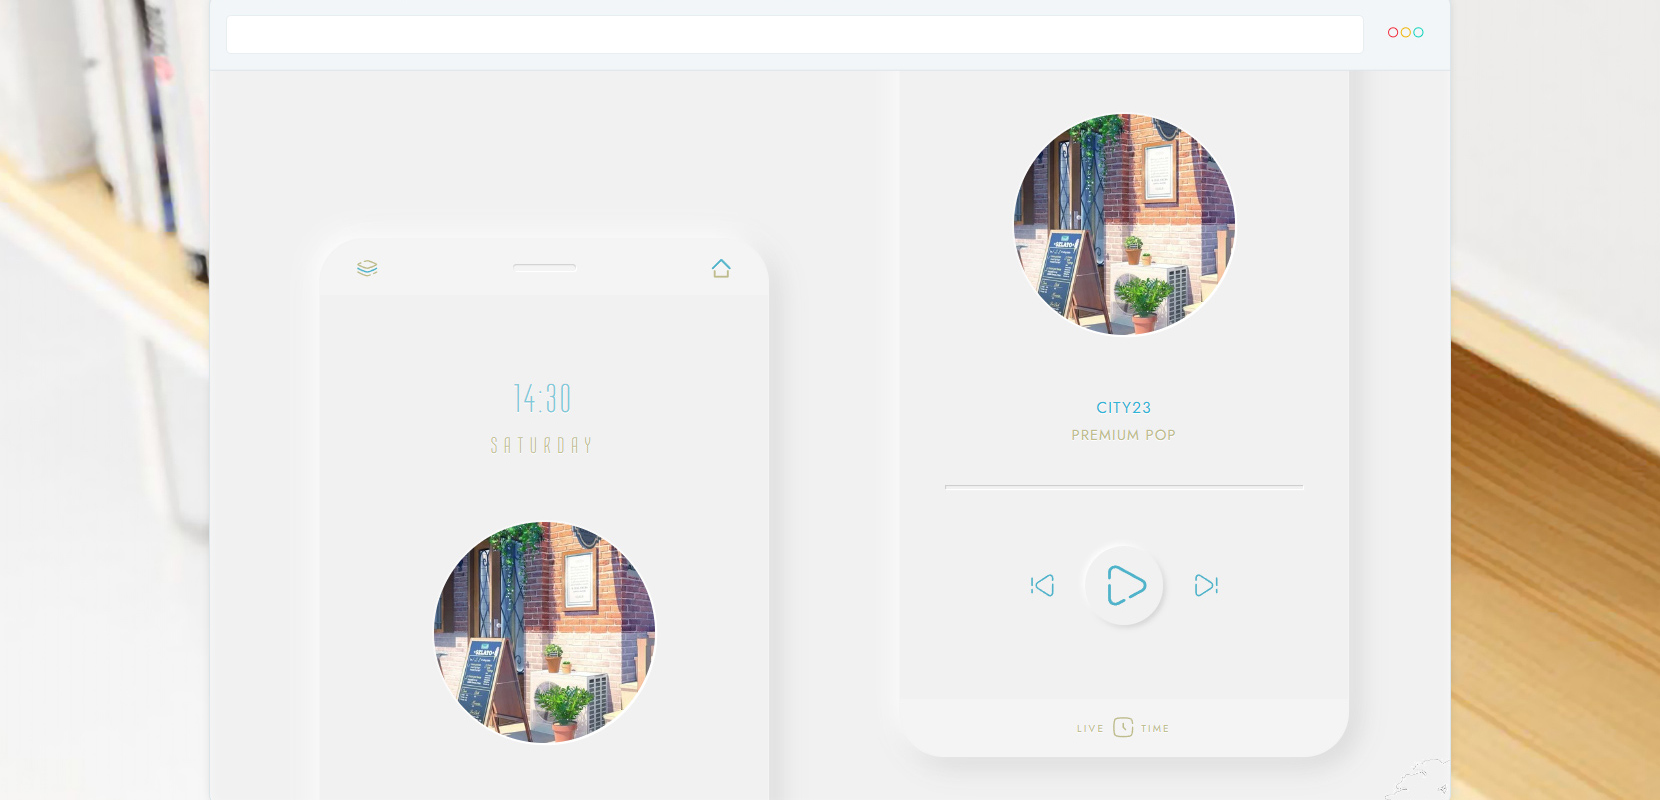
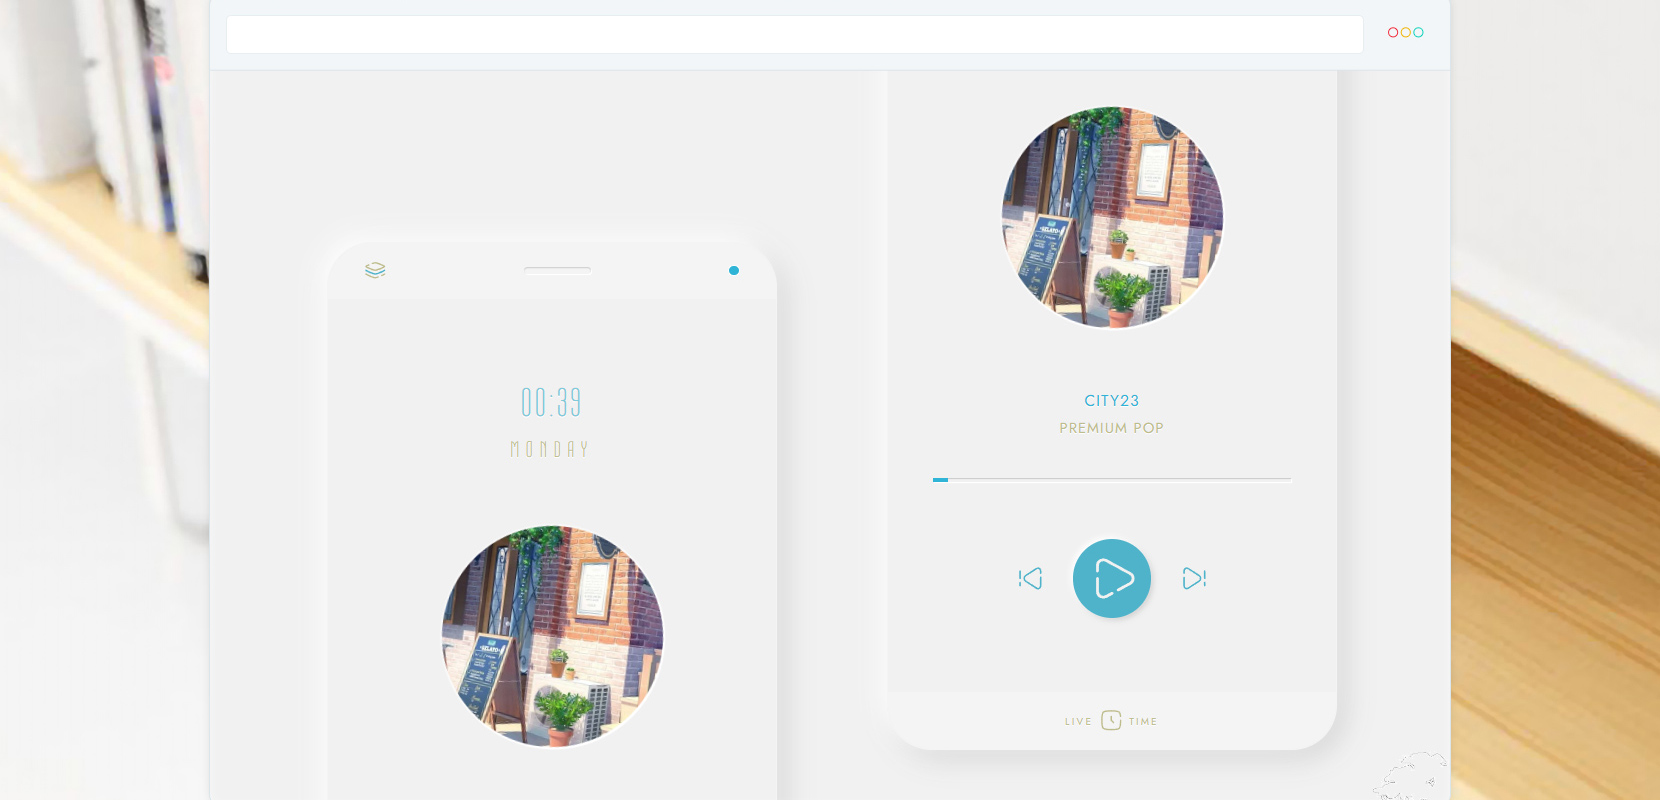
new

diff --git a/css/style.css b/css/style.css
@@ -57,7 +57,6 @@ body
 	border : 1px solid #f4f4f4;
 	border-radius : 40px;
 
-
 	background : #f1f1f1;
 	box-shadow : -6px -6px 22px #fff, 6px 6px 24px #d0d0d0;
 }
@@ -77,7 +76,7 @@ body
 	height : 3.125rem;
 
 	margin : 0;
-	padding : 2px 2rem 0;
+	padding : 0 2rem;
 
 	border-top-left-radius : 40px;
 	border-top-right-radius : 40px;
@@ -85,7 +84,7 @@ body
 	background : #f4f4f4;
 }
 
-.code, .code svg
+.code svg
 {
 	display : flex;
 
@@ -102,24 +101,7 @@ body
 	stroke-width : 0;
 }
 
-.sound, .sound svg
-{
-	display : flex;
-
-	width : 1.25rem;
-	height : 1.25rem;
-
-	cursor : pointer;
-	transition : all .3s ease;
-
-	color : #bfbc8a;
-
-	fill : currentColor;
-	stroke : currentColor;
-	stroke-width : 0;
-}
-
-.code svg:hover, .sound svg:hover
+.code svg:hover
 {
 	color : #00b4d8;
 }
@@ -127,10 +109,8 @@ body
 .speaker
 {
 	display : flex;
-	align-items : center;
-	justify-content : center;
 
-	width : 3.5rem;
+	width : 3.75rem;
 	height : .375rem;
 
 	margin : auto;
@@ -138,6 +118,31 @@ body
 	border-radius : 20px;
 	background : #f4f4f4;
 	box-shadow : inset 0 1px 1px #cecece, 1px 1px 0 #fff;
+}
+
+.point a
+{
+	display : flex;
+
+	width : .65rem;
+	height : .65rem;
+
+	cursor : pointer;
+	transition : all .3s ease;	
+
+	background: #00b4d8;
+	border : 1px solid #fff;
+
+	border-radius : 50%;
+}
+
+.point a:hover
+{
+	width : .85rem;
+	height : .85rem;
+	
+	background: #f4f4f4;
+	border : 2px solid #00b4d8;
 }
 
 .main
@@ -375,8 +380,8 @@ body
 	border-radius : 50%;
 	outline : none;
 
-	/* background : #41b3cb; */
-	background : #f1f1f1;
+	background : #41b3cb;
+	/* background : #f1f1f1; */
 	box-shadow : -2px -2px 5px #fff, 2px 2px 5px #d0d0d0;
 }
 
@@ -390,8 +395,8 @@ body
 	cursor : pointer;
 	transition : all .3s ease;
 
-	/* color : #f1f1f1; */
-	color : #41b3cb;
+	color : #f1f1f1;
+	/* color : #41b3cb; */
 
 	fill : currentColor;
 	stroke : currentColor;
@@ -409,18 +414,8 @@ body
 	width : 1.75rem;
 	height : 1.75rem;
 
-	color : #737c7b;
-	
+	color : #737c7b;	
 }
-
-.scale-out-enter-active { transition : all .35s ease-in-out; }
-.scale-out-leave-active { transition : all .35s ease-in-out; }
-.scale-out-enter { transform : scale(.55); pointer-events : none; opacity : 0; }
-.scale-out-leave-to { transform : scale(1.2); pointer-events : none; opacity : 0; }
-.scale-in-enter-active { transition : all .35s ease-in-out; }
-.scale-in-leave-active { transition : all .35s ease-in-out; }
-.scale-in-enter { transform : scale(1.2); pointer-events : none; opacity : 0; }
-.scale-in-leave-to { transform : scale(.55); pointer-events : none; opacity : 0; }
 
 .bottom-color
 {
@@ -463,7 +458,7 @@ body
 
 .time
 {
-	margin : 0 6px;
+	margin : 0 .375rem;
 }
 
 .time-label svg
@@ -488,10 +483,20 @@ body
 	display : flex;
 	display : none;
 
-	margin-top : 4px;
+	margin-top : .1875rem;
 
 	color : #79cada;
 }
+
+/* cover effect */
+.scale-out-enter-active { transition : all .35s ease-in-out; }
+.scale-out-leave-active { transition : all .35s ease-in-out; }
+.scale-out-enter { transform : scale(.55); pointer-events : none; opacity : 0; }
+.scale-out-leave-to { transform : scale(1.2); pointer-events : none; opacity : 0; }
+.scale-in-enter-active { transition : all .35s ease-in-out; }
+.scale-in-leave-active { transition : all .35s ease-in-out; }
+.scale-in-enter { transform : scale(1.2); pointer-events : none; opacity : 0; }
+.scale-in-leave-to { transform : scale(.55); pointer-events : none; opacity : 0; }
 
 /* loader */
 

diff --git a/index.html b/index.html
@@ -33,7 +33,7 @@
 
 		<!-- loader -->
 	<div class="loader">
-		<svg viewBox="-3 -4 39 39"> <polygon fill="#f1f1f1" stroke="#000" stroke-width="1"  points="16,0 32,32 0,32"></polygon></svg>
+		<svg viewBox="-3 -4 39 39"><polygon fill="#f1f1f1" stroke="#000" stroke-width="1"  points="16,0 32,32 0,32"></polygon></svg>
 	</div>
 	
 	<!-- player -->      
@@ -47,13 +47,11 @@
 			<div class="code"><a :href="`https://github.com/yojeero/`" target="_blank">
 				<svg><use xlink:href="img/icon.svg#icon-code"></use></svg></a>
 			</div>
-		
-			<div class="speaker"></div>		
+	      
+			   <div class="speaker"></div>	 
 
-			<div class="sound"><a :href="currentTrack.url" target="_blank">
-				<svg><use xlink:href="img/icon.svg#icon-sound"></use></svg></a>
-			</div>		
-		
+			<div class="point"><a :href="currentTrack.url" target="_blank"></a></div>
+
 		</div>
 
   <div class="main">   
@@ -119,7 +117,7 @@
 		
 					<div class="time-radio">{{ currentTime }}</div>
 		
-				</div> time
+				</div>time
 			
 			</div> 
 
@@ -143,9 +141,7 @@
 	
 	<!-- clock -->
 	<script>
-
 		let updateClock=()=>{let t=new Date,e=["Sunday","Monday","Tuesday","Wednesday","Thursday","Friday","Saturday"],a=e[t.getDay()],d=String(t.getHours()).padStart(2,"0"),n=String(t.getMinutes()).padStart(2,"0"),u=`${d}:${n}`;document.getElementById("time").textContent=`${u}`,document.getElementById("day").textContent=`${a}`};setInterval(updateClock,1e3),updateClock();
-
 	</script>  
 	
 </body>
